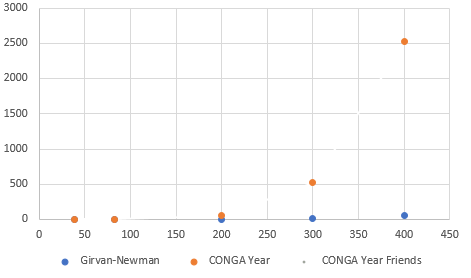
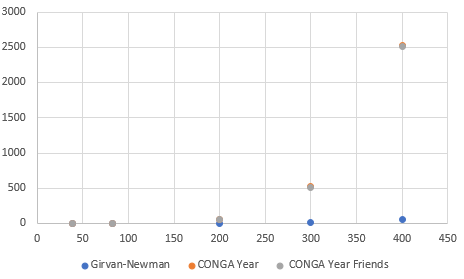
Add time description

diff --git a/Documentation/Final/Documentation.tex b/Documentation/Final/Documentation.tex
@@ -147,7 +147,20 @@ Podsumowując, wierzchołki uzyskanego grafu stanowią polscy aktorzy, pobrani z
 %-----------------------------------------------------%
 \subsection{Algorytm Girvan-Newmana}
 \subsubsection{Analiza czasowa}
-Założenie polegające na tym, iż w każdym kroku liczone są najkrótsze ścieżki pomiędzy każdą parą wierzchołków okazało się kluczowe, jeśli patrzymy pod kątem czasu wykonania. Chcąc szybko osiągnąć wynik wybór algorytmu Girvan-Newman nie jest wyborem najlepszym już dla społeczności rozłącznych. Rozszerzając algorytm na społeczności nachodzące (przy pomocy algorytmu CONGA z własnymi modyfikacjami) jeszcze bardziej utrudniamy pracę algorytmowi, tworząc kopie wierzchołków i rozszerzając przez to zbiór par, dla których liczone są najkrótsze ścieżki.
+Algorytm Girvan-Newman jest algorytmem niezwykle wymgającym, gdy myślimy o nim w kwestii czasu wykonania. Założenie polegające na tym, iż w każdym kroku liczone są najkrótsze ścieżki pomiędzy każdą parą wierzchołków, okazało się kluczowe, jeśli patrzymy pod kątem czasu wykonania. Chcąc szybko osiągnąć wynik, wybór algorytmu Girvan-Newman nie jest wyborem najlepszym już dla społeczności rozłącznych. Rozszerzając algorytm na społeczności nachodzące (przy pomocy algorytmu CONGA z własnymi modyfikacjami) jeszcze bardziej utrudniamy pracę algorytmowi, tworząc kopie wierzchołków i rozszerzając przez to zbiór par, dla których liczone są najkrótsze ścieżki. Doskonale obrazuje to poniższy wykres.
+
+\begin{figure}[H]
+\centering
+\includegraphics[width=\textwidth]{images/is-sample-8.png}
+\caption{Wykres czasu w zależności od liczby wierzchołków grafu}
+\end{figure}
+
+Dla grafów o liczbie wierzchołków mniejszej od 200 różnica czasu wykonania nie jest zbyt duża, bez znaczenia czy mówimy o klasycznym algorytmie Girvan-Newmana, czy którejś z modyfikacji algorytmu CONGA. Dla większych grafów różnice robią się już jednak o wiele bardziej zauważalne. Już dla grafu o liczbie wierzchołków równej 400 algorytm CONGA jest ponad 35 razy wolniejszy niż metoda Girvan-Newman. Jest to też ostatni graf, na którym udało się przebadać każdą z modyfikacji. Co prawda metoda Girvan-Newman (która przypomnijmy tylko usuwa krawędzie, nie tworząc kopii wierzchołka) poradziła sobie jeszcze z grafami o liczbie 500 i 1700 wierzchołków, to modyfikacja dla społeczności nachodzących nie zmieściła się w limitach czasowych określonych na testy. Warto też zaznaczyć, że w przypadku grafu o liczbie wierzchołków wynoszącej ponad 1700 czas wykonania wyniósł niemal 25000 sekund! \\
+
+Dlaczego jednak algorytm CONGA nie poradził sobie z grafem mającym tylko 500 wierzchołków? Ponado nie udało mu się także z grafem mającym wierzchołków 370. Fakt ten wynika z gęstości grafów, które zostały przebadane. W przypadku grafów gęstych parametr vertex betweennees znacznie częściej osiąga wartość wyższą niż edge betweenness. Przez to czas wykonania algorytmu rośnie, gdyż powstają coraz to nowe wierzchołki, które są analizowane przy obliczaniu wszystkich najkrótszych ścieżek. O ile w metodzie Girvan-Newman czas wykonania pojedynczej iteracji maleje z każdą kolejną, tak dla CONGA nie mamy takiej gwarancji. Można się wręcz spodziewać, że na początku działania algorytmu, gdzie dochodzi do największej liczby kopii, efekt będzie zupełnie odwrotny. \\
+
+Reasumując, złożoność czasowa algorytmu CONGA uniemożliwia przebadanie go na bardzo dużych grafach. Jest to duży minus tego algorytmu, skutecznie uniemożliwiający wykorzystanie go na dużych zbiorach, gdyż takowe zaczynają się dla tej metody już w granicach 400 wierzchołków. Warto zwrócić również w tym wypadku uwagę na fakt gęstości grafu - na grafie gęstym algorytm może okazać się nie do wykonania w rozsądnym czasie już dla 370 wierzchołków. Jeżeli więc czas działania jest istotny dla odbiorcy (a w większości przypadków tak na pewno jest), algorytm CONGA nie sprawdzi się najlepiej. Jest on natomiast bardzo dobrą metodą szkoleniową do wykorzystania i analizy dla mniejszych i średnich grafów. \\
+
 \subsubsection{Analiza jakościowa}
 Po wykonaniu analizy algorytmu, a przed przystąpieniem do implementacji, fakt jego wolnego działania nie został przez nikogo przyjęty ze zdziwieniem. Cechą, którą miał obronić się ten algorytm, była jakość rozwiązania. Rzeczywiście na tym polu można zauważyć, że algorytm zachowuje się o wiele lepiej z perspektywy użytkownika. Po wykonaniu pełnego przebiegu dla danego grafu i otrzymania wynikowego dendrogramu manipulacja wynikiem, którego poszukujemy, zależy już tylko od indywidualnych preferencji użytkownika.\\
 Usystematyzować te preferencje pozwoliły metody wykorzystane w implementacji. Pierwszą z nich było określenie, którego z maksimów lokalnych poszukujemy. Na podstawie ich zbioru umożliwiony został wybór, który kwantyl wśród wyników, jest tym nas interesującym. Jeżeli otrzymany wynik nie był jednak zadowalający (np. ze względu na zbyt duży bądź zbyt mały rozmiar społeczności wynikowych), można było zmienić wartość kwantylu i wedle preferencji uzyskać podział na większe bądź mniejsze grupy.\\
@@ -182,7 +195,7 @@ Wielkość grup można określić poprzez parametr modularności (tutaj jednak n
 \caption{Wynik przy gap=5 (największa wartość modularności)}
 \end{figure}
 
-Graf przedstawiony powyżej został wygenerowany z tego samego grafu początkowego co grafy z rysunków 1, 2 i 3. Prezentowany wynik to wynik dla iteracji o największej wartości modularności. Można zauważyć, iż rezultat ten jest zbliżony do grafu, który został uzyskany przy kwantylu 0.3 dla poprzedniego sposobu wyznaczania wyniku. Parametr gap ogranicza w naszym przypadku liczbę społeczności nachodzących, jednak zachwiana jest w ten sposób tendencja parametru modularności. Przy zerowej wartości priorytetu modularność dla kolejnych iteracji maleje, tutaj tracimy tę własność. Spójrzmy na wynik uzyskany dla kwantylu 0.3.
+Graf przedstawiony powyżej został wygenerowany z tego samego grafu początkowego, który analizowany był na poprzednich rysunkach. Prezentowany wynik to wynik dla iteracji o największej wartości modularności. Można zauważyć, iż rezultat ten jest zbliżony do grafu, który został uzyskany przy kwantylu 0.3 dla poprzedniego sposobu wyznaczania wyniku. Parametr gap ogranicza w naszym przypadku liczbę społeczności nachodzących, jednak zachwiana jest w ten sposób tendencja parametru modularności. Przy zerowej wartości priorytetu modularność dla kolejnych iteracji maleje, tutaj tracimy tę własność. Spójrzmy na wynik uzyskany dla kwantylu 0.3.
 
 \begin{figure}[H]
 \centering
